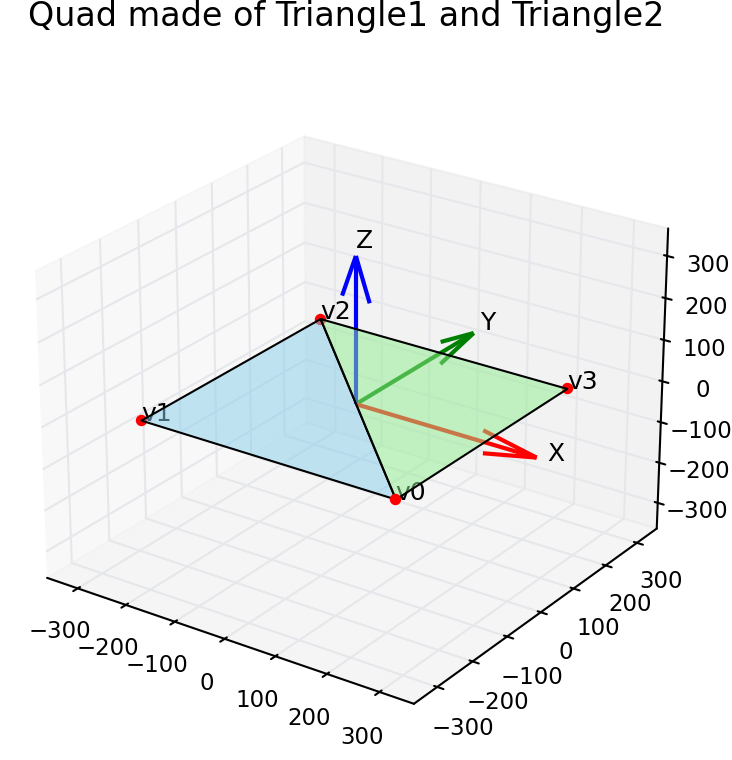
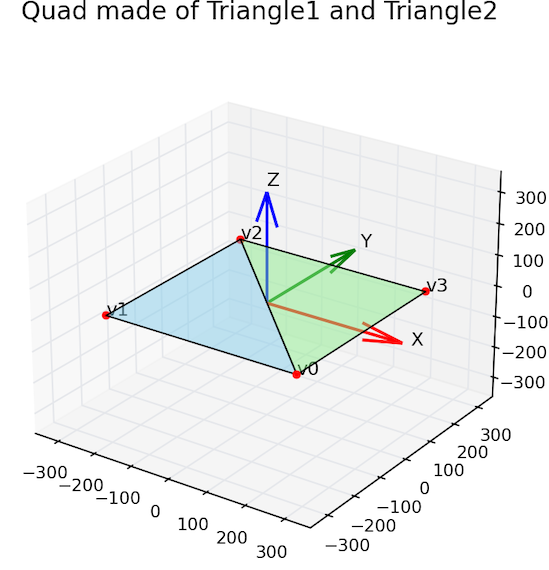
doc: add document for pipeline

diff --git a/Documents/MetalProgrammingBasics/MetalProgrammingBasics_.md b/Documents/MetalProgrammingBasics/MetalProgrammingBasics_.md
@@ -91,6 +91,36 @@ MTLViewport viewport =
 </pre>
 
 
+### Pipeline
+
+#### Processing pipelines
+* [Render pipeline (2D)](#render-pipeline-2d)
+* [Render pipeline (3D)](#render-pileline-3d)
+* Compute pipeline
+* Machine learning pipeline
+* Blit pipeline
+* Indirect command pipeline
+* Ray tracing acceleration structure pipeline
+
+#### Render pipeline 2D
+* Allocate texture
+* Render Pass
+* Vertex Shader
+* Fragment Shader
+* Texture Sampling
+* Drawable(CAMetalLayer)
+* Display
+
+#### Render pipeline 3D
+Here is an overview of the common stages in a standard graphics pipeline:
+* **Input and Assembly**: This stage takes raw 3D data, such as vertices and textures, and organizes it into geometric primitives like triangles or lines.
+* **Vertex Shading**: The vertex shader processes each vertex to apply transformations, such as moving, rotating, or scaling the object, and calculates lighting.
+* **Rasterization**: This stage converts the 3D geometric primitives into 2D fragments, which are the individual pixels that will be drawn on the screen.
+* **Fragment Shading**: The fragment shader processes each fragment to determine its final color, taking into account textures, materials, and lighting.
+* **Output and Blending**: The final stage combines the processed fragments with the existing pixels on the screen, applying effects like transparency or depth testing to produce the finished image.
+
+
+
 
 ### Software components
 ##### Software Components
@@ -111,31 +141,6 @@ encode the pipeline state and buffer to compute it on Metal
 
 ##### Texture [MTLTexture]
 * Use the [MTKTextureLoader] class to create a Metal texture from existing image data.
-
-
-
-### Basic Sequence
-# Basic sequence
-
-## Overview
-
-This section describes about the basic sequence to execute the vector calculation.
-
-1. Get <i>device object</i> for the application
-1. Allocate <i>pipeline state</i> to execute the <i>kernel function</i> on the device. 
-1. Get <i>command queue</i> for the <i>device object</i>
-1. Allocate <i>command buffer</i> from <i>command queue</i>
-1. Allocate <i>command encoder</i> from <i>command buffer</i>.
-1. Allocate input and output data buffer on the device.
-1. Register input and output buffers to <i>command encoder</i>.
-1. Register the <i>pipeline state</i> to <i>command encoder</i>
-1. Set thread grouping information to <i>command encoder</i>.
-1. Execute the thread by commiting the <i>command buffer</i>.
-
-## Sample implementation
-@code_begin@
-
-@code_end@
 
 
 

diff --git a/Documents/MetalProgrammingBasics/Fundamentals/Fundamentals.md b/Documents/MetalProgrammingBasics/Fundamentals/Fundamentals.md
@@ -77,6 +77,36 @@ MTLViewport viewport =
 </pre>
 
 
+### Pipeline
+
+#### Processing pipelines
+* [Render pipeline (2D)](#render-pipeline-2d)
+* [Render pipeline (3D)](#render-pileline-3d)
+* Compute pipeline
+* Machine learning pipeline
+* Blit pipeline
+* Indirect command pipeline
+* Ray tracing acceleration structure pipeline
+
+#### Render pipeline 2D
+* Allocate texture
+* Render Pass
+* Vertex Shader
+* Fragment Shader
+* Texture Sampling
+* Drawable(CAMetalLayer)
+* Display
+
+#### Render pipeline 3D
+Here is an overview of the common stages in a standard graphics pipeline:
+* **Input and Assembly**: This stage takes raw 3D data, such as vertices and textures, and organizes it into geometric primitives like triangles or lines.
+* **Vertex Shading**: The vertex shader processes each vertex to apply transformations, such as moving, rotating, or scaling the object, and calculates lighting.
+* **Rasterization**: This stage converts the 3D geometric primitives into 2D fragments, which are the individual pixels that will be drawn on the screen.
+* **Fragment Shading**: The fragment shader processes each fragment to determine its final color, taking into account textures, materials, and lighting.
+* **Output and Blending**: The final stage combines the processed fragments with the existing pixels on the screen, applying effects like transparency or depth testing to produce the finished image.
+
+
+
 
 ### Software components
 ##### Software Components
@@ -97,31 +127,6 @@ encode the pipeline state and buffer to compute it on Metal
 
 ##### Texture [MTLTexture]
 * Use the [MTKTextureLoader] class to create a Metal texture from existing image data.
-
-
-
-### Basic Sequence
-# Basic sequence
-
-## Overview
-
-This section describes about the basic sequence to execute the vector calculation.
-
-1. Get <i>device object</i> for the application
-1. Allocate <i>pipeline state</i> to execute the <i>kernel function</i> on the device. 
-1. Get <i>command queue</i> for the <i>device object</i>
-1. Allocate <i>command buffer</i> from <i>command queue</i>
-1. Allocate <i>command encoder</i> from <i>command buffer</i>.
-1. Allocate input and output data buffer on the device.
-1. Register input and output buffers to <i>command encoder</i>.
-1. Register the <i>pipeline state</i> to <i>command encoder</i>
-1. Set thread grouping information to <i>command encoder</i>.
-1. Execute the thread by commiting the <i>command buffer</i>.
-
-## Sample implementation
-@code_begin@
-
-@code_end@
 
 
 

diff --git a/Documents/MetalProgrammingBasics/MetalProgrammingBasics.md b/Documents/MetalProgrammingBasics/MetalProgrammingBasics.md
@@ -91,6 +91,36 @@ MTLViewport viewport =
 </pre>
 
 
+### Pipeline
+
+#### Processing pipelines
+* [Render pipeline (2D)](#render-pipeline-2d)
+* [Render pipeline (3D)](#render-pileline-3d)
+* Compute pipeline
+* Machine learning pipeline
+* Blit pipeline
+* Indirect command pipeline
+* Ray tracing acceleration structure pipeline
+
+#### Render pipeline 2D
+* Allocate texture
+* Render Pass
+* Vertex Shader
+* Fragment Shader
+* Texture Sampling
+* Drawable(CAMetalLayer)
+* Display
+
+#### Render pipeline 3D
+Here is an overview of the common stages in a standard graphics pipeline:
+* **Input and Assembly**: This stage takes raw 3D data, such as vertices and textures, and organizes it into geometric primitives like triangles or lines.
+* **Vertex Shading**: The vertex shader processes each vertex to apply transformations, such as moving, rotating, or scaling the object, and calculates lighting.
+* **Rasterization**: This stage converts the 3D geometric primitives into 2D fragments, which are the individual pixels that will be drawn on the screen.
+* **Fragment Shading**: The fragment shader processes each fragment to determine its final color, taking into account textures, materials, and lighting.
+* **Output and Blending**: The final stage combines the processed fragments with the existing pixels on the screen, applying effects like transparency or depth testing to produce the finished image.
+
+
+
 
 ### Software components
 ##### Software Components
@@ -111,31 +141,6 @@ encode the pipeline state and buffer to compute it on Metal
 
 ##### Texture [MTLTexture]
 * Use the [MTKTextureLoader] class to create a Metal texture from existing image data.
-
-
-
-### Basic Sequence
-# Basic sequence
-
-## Overview
-
-This section describes about the basic sequence to execute the vector calculation.
-
-1. Get <i>device object</i> for the application
-1. Allocate <i>pipeline state</i> to execute the <i>kernel function</i> on the device. 
-1. Get <i>command queue</i> for the <i>device object</i>
-1. Allocate <i>command buffer</i> from <i>command queue</i>
-1. Allocate <i>command encoder</i> from <i>command buffer</i>.
-1. Allocate input and output data buffer on the device.
-1. Register input and output buffers to <i>command encoder</i>.
-1. Register the <i>pipeline state</i> to <i>command encoder</i>
-1. Set thread grouping information to <i>command encoder</i>.
-1. Execute the thread by commiting the <i>command buffer</i>.
-
-## Sample implementation
-```
-
-```
 
 
 

diff --git a/Documents/MetalProgrammingBasics/Fundamentals/Pipeline.md b/Documents/MetalProgrammingBasics/Fundamentals/Pipeline.md
@@ -1,0 +1,29 @@
+### Pipeline
+
+#### Processing pipelines
+* [Render pipeline (2D)](#render-pipeline-2d)
+* [Render pipeline (3D)](#render-pileline-3d)
+* Compute pipeline
+* Machine learning pipeline
+* Blit pipeline
+* Indirect command pipeline
+* Ray tracing acceleration structure pipeline
+
+#### Render pipeline 2D
+* Allocate texture
+* Render Pass
+* Vertex Shader
+* Fragment Shader
+* Texture Sampling
+* Drawable(CAMetalLayer)
+* Display
+
+#### Render pipeline 3D
+Here is an overview of the common stages in a standard graphics pipeline:
+* **Input and Assembly**: This stage takes raw 3D data, such as vertices and textures, and organizes it into geometric primitives like triangles or lines.
+* **Vertex Shading**: The vertex shader processes each vertex to apply transformations, such as moving, rotating, or scaling the object, and calculates lighting.
+* **Rasterization**: This stage converts the 3D geometric primitives into 2D fragments, which are the individual pixels that will be drawn on the screen.
+* **Fragment Shading**: The fragment shader processes each fragment to determine its final color, taking into account textures, materials, and lighting.
+* **Output and Blending**: The final stage combines the processed fragments with the existing pixels on the screen, applying effects like transparency or depth testing to produce the finished image.
+
+
